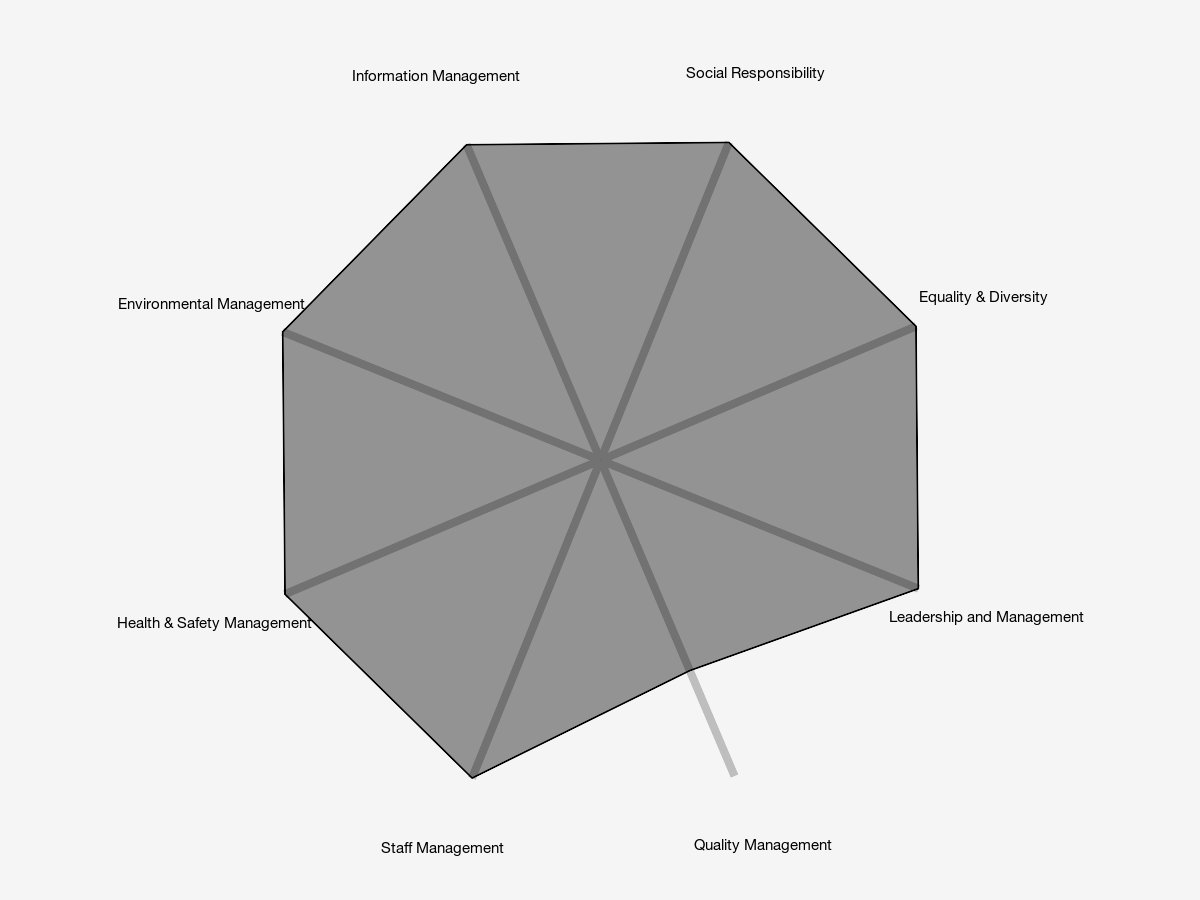
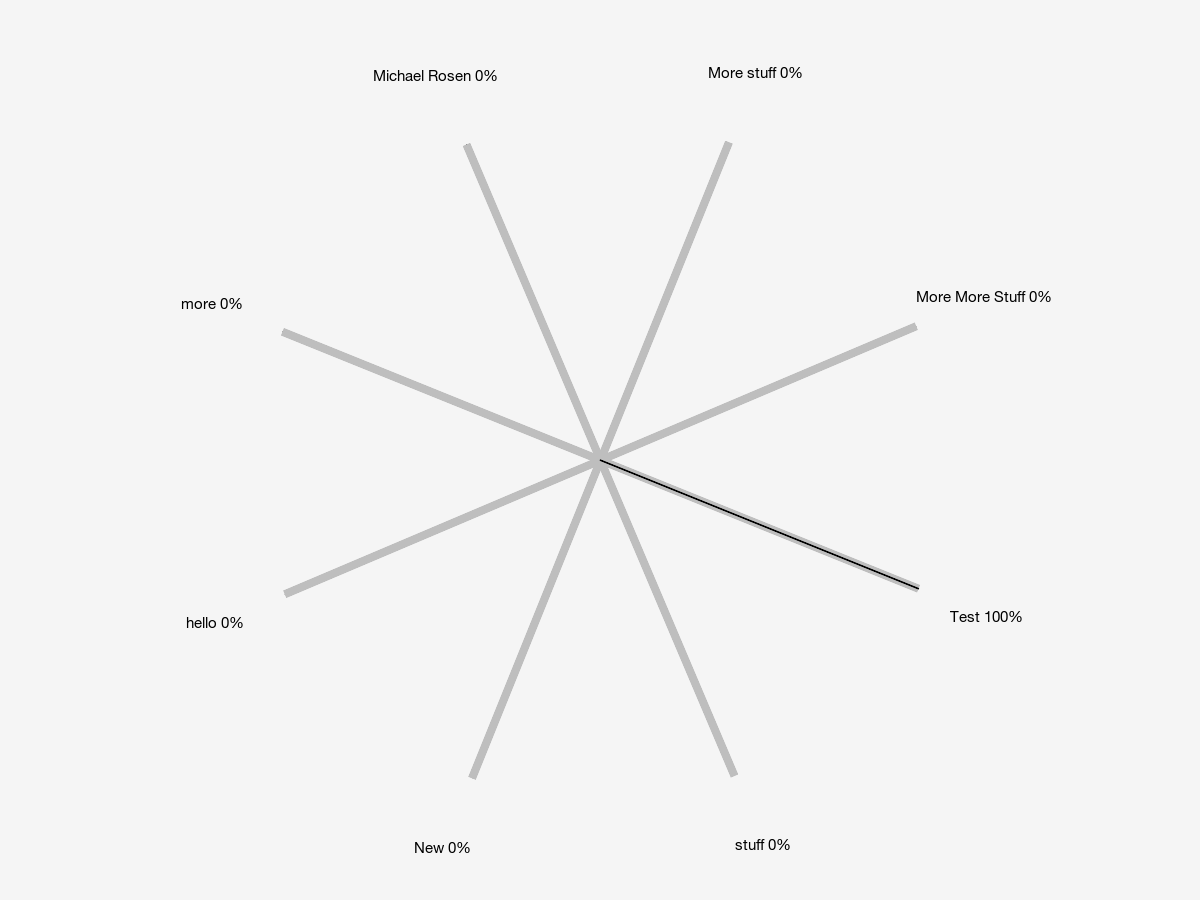
Added responses

diff --git a/app/assets/stylesheets/application.css.scss b/app/assets/stylesheets/application.css.scss
@@ -12,7 +12,7 @@
  *= require_tree .
  */
 
-/* 
+/*
 prevents parsererrors rendering
 
 parsererror > h3,
@@ -78,7 +78,7 @@ th.keep-left3:first-child {
 	  padding-left:50px;
 	  width: 80px;
   }
-  
+
   &.hover {
   	background: #F5F5F5;
   }
@@ -111,6 +111,9 @@ th.keep-left3:first-child {
 
   &.info {
   	background-color: #c4e3f3;
+  }
+  &.response {
+    background-color: #96c5de;
   }
 }
 
@@ -160,7 +163,7 @@ th.keep-left3:first-child {
 }
 
 .pad2 {
-  
+
 }
 
 .fillright {
@@ -308,7 +311,7 @@ th.keep-left3:first-child {
 
 .negative-margin-top {
 	margin-top:-20px;
-} 
+}
 
 input[id="_search_words"] {
 	width:445px;

diff --git a/app/assets/stylesheets/responses.css.scss b/app/assets/stylesheets/responses.css.scss
@@ -1,0 +1,3 @@
+// Place all the styles related to the Responses controller here.
+// They will automatically be included in application.css.
+// You can use Sass (SCSS) here: http://sass-lang.com/

diff --git a/app/controllers/responses_controller.rb b/app/controllers/responses_controller.rb
@@ -1,0 +1,61 @@
+class ResponsesController < ApplicationController
+  # GET /responses
+  # GET /responses.json
+
+  # GET /responses/new
+  # GET /responses/new.json
+  def new
+    @segment = Segment.find(params[:segment_id])
+    @response = Response.new
+
+    respond_to do |format|
+      format.html # new.html.erb
+      format.json { render json: @response }
+    end
+  end
+
+  # GET /responses/1/edit
+  def edit
+    @response = Response.find(params[:id])
+    @segment = @response.segment
+  end
+
+  # POST /responses
+  # POST /responses.json
+  def create
+    @segment = Segment.find(params[:response][:segment_id])
+    @response = Response.new(params[:response])
+
+    if @response.save
+      redirect_to diagnostic_admin_path(@segment.diagnostic), notice: 'Segment was successfully created.'
+    else
+      render action: "new"
+    end
+  end
+
+  # PUT /responses/1
+  # PUT /responses/1.json
+  def update
+    @segment = Segment.find(params[:response][:segment_id])
+    @response = Response.find(params[:id])
+
+    if @response.update_attributes(params[:response])
+      redirect_to diagnostic_admin_path(@segment.diagnostic), notice: 'Segment was successfully created.'
+    else
+      render action: "edit"
+    end
+  end
+
+  # DELETE /responses/1
+  # DELETE /responses/1.json
+  def destroy
+    @response = Response.find(params[:id])
+    @response.destroy
+
+    if @response.destroy
+      redirect_to diagnostic_admin_path(@segment.diagnostic), notice: 'Response was successfully deleted.'
+    else
+      redirect_to diagnostic_admin_path(@segment.diagnostic), alert: 'There was a problem deleting the Response.'
+    end
+  end
+end

diff --git a/config/routes.rb b/config/routes.rb
@@ -1,33 +1,36 @@
 Survey::Application.routes.draw do
-  
+
   resources :diagnostics
   match "/diagnostics/:diagnostic_id/admin" => "diagnostics#admin", :as => 'diagnostic_admin'
   match "/diagnostics/:diagnostic_id/click/:x/:y/:rotation" => "diagnostics#click", :as => 'diagnostic_click'
   match "/diagnostics/:id/segment/:segment_id" => "diagnostics#show", :as => 'diagnostic_segment'
   match "/diagnostics_edit" => "diagnostics#all"
-  
+
   resources :segments, :except => :index
   match "/segments/new/:diagnostic_id" => "segments#new", :as => 'new_segment'
   match "/segments/:segment_id/questions" => "segments#questions", :as => 'segment_questions'
-  
+
   resources :questions, :except => :index
   match "/questions/new/:segment_id" => "questions#new", :as => 'new_question'
   match "/questions/:segment_id" => "questions#show"
-  
+
   resources :sub_questions, :except => :index
   match "/sub_questions/new/:question_id" => "sub_questions#new", :as => 'new_sub_question'
   match "/sub_questions/select/:sub_question_id" => "sub_questions#select", :as => 'select_sub_question'
-  
+
+  resources :responses, :except => [:index, :show]
+  match "/responses/new/:segment_id" => "responses#new", :as => 'new_response'
+
   resources :users, :only => [:index, :show, :new, :create]
   match '/search' => 'users#index'
-  
+
   as :user do
     get '/login', to: 'devise/sessions#new', :as => :login
     get '/logout', to: 'devise/sessions#destroy', :as => :logout
     get '/edit', to: 'devise/registrations#edit', :as => :edit
   end
   match "/new" => "users#new", :as => 'new_user'
-  
+
 
   devise_for :users
 

diff --git a/test/functional/responses_controller_test.rb b/test/functional/responses_controller_test.rb
@@ -1,0 +1,49 @@
+require 'test_helper'
+
+class ResponsesControllerTest < ActionController::TestCase
+  setup do
+    @response = responses(:one)
+  end
+
+  test "should get index" do
+    get :index
+    assert_response :success
+    assert_not_nil assigns(:responses)
+  end
+
+  test "should get new" do
+    get :new
+    assert_response :success
+  end
+
+  test "should create response" do
+    assert_difference('Response.count') do
+      post :create, response: {  }
+    end
+
+    assert_redirected_to response_path(assigns(:response))
+  end
+
+  test "should show response" do
+    get :show, id: @response
+    assert_response :success
+  end
+
+  test "should get edit" do
+    get :edit, id: @response
+    assert_response :success
+  end
+
+  test "should update response" do
+    put :update, id: @response, response: {  }
+    assert_redirected_to response_path(assigns(:response))
+  end
+
+  test "should destroy response" do
+    assert_difference('Response.count', -1) do
+      delete :destroy, id: @response
+    end
+
+    assert_redirected_to responses_path
+  end
+end

diff --git a/db/schema.rb b/db/schema.rb
@@ -11,7 +11,7 @@
 #
 # It's strongly recommended to check this file into your version control system.
 
-ActiveRecord::Schema.define(:version => 20143013194323) do
+ActiveRecord::Schema.define(:version => 20150509142524) do
 
   create_table "answers", :force => true do |t|
     t.integer  "sub_question_id"
@@ -35,6 +35,14 @@ ActiveRecord::Schema.define(:version => 20143013194323) do
     t.datetime "created_at",                 :null => false
     t.datetime "updated_at",                 :null => false
     t.text     "description"
+  end
+
+  create_table "responses", :force => true do |t|
+    t.string   "description"
+    t.integer  "value"
+    t.integer  "segment_id"
+    t.datetime "created_at",  :null => false
+    t.datetime "updated_at",  :null => false
   end
 
   create_table "segments", :force => true do |t|

diff --git a/app/controllers/segments_controller.rb b/app/controllers/segments_controller.rb
@@ -2,7 +2,7 @@ class SegmentsController < ApplicationController
   # GET /segments
   before_filter :authenticate_user!, only: [:new, :create, :edit, :update, :destroy]
   before_filter :can_edit, only: [:new, :create, :edit, :update, :destroy]
-  
+
   def index
     @segments = Segment.all
   end
@@ -40,7 +40,7 @@ class SegmentsController < ApplicationController
       redirect_to diagnostic_admin_path(@segment.diagnostic), notice: 'Segment was successfully created.' 
     else
       render action: "new"
-      
+
     end
   end
 
@@ -69,7 +69,7 @@ class SegmentsController < ApplicationController
       redirect_to diagnostic_admin_path(@segment.diagnostic), alert: 'There was a problem deleting the Segment.'
     end
   end
-  
+
   private
   def can_edit
 	  if user_signed_in?

diff --git a/app/models/response.rb b/app/models/response.rb
@@ -1,0 +1,14 @@
+class Response < ActiveRecord::Base
+  belongs_to :segment
+  attr_accessible :description, :value, :segment_id
+
+  validates :description, presence: true
+
+  validates :value, presence: true
+
+  validates :value, presence: true, :numericality => {
+    greater_than_or_equal_to: 0, less_than_or_equal_to: 100
+  }
+
+  validates :segment_id, presence: true
+end

diff --git a/db/migrate/20150509142524_create_responses.rb b/db/migrate/20150509142524_create_responses.rb
@@ -1,0 +1,11 @@
+class CreateResponses < ActiveRecord::Migration
+  def change
+    create_table :responses do |t|
+      t.string :description
+      t.integer :value
+      t.integer :segment_id
+
+      t.timestamps
+    end
+  end
+end

diff --git a/app/models/segment.rb b/app/models/segment.rb
@@ -9,6 +9,8 @@ class Segment < ActiveRecord::Base
 
   has_many :questions
 
+  has_many :responses
+
   after_save :diagnostic_make_wheel
 
   def yes(user)

diff --git a/test/unit/response_test.rb b/test/unit/response_test.rb
@@ -1,0 +1,7 @@
+require 'test_helper'
+
+class ResponseTest < ActiveSupport::TestCase
+  # test "the truth" do
+  #   assert true
+  # end
+end

diff --git a/test/unit/helpers/responses_helper_test.rb b/test/unit/helpers/responses_helper_test.rb
@@ -1,0 +1,4 @@
+require 'test_helper'
+
+class ResponsesHelperTest < ActionView::TestCase
+end
